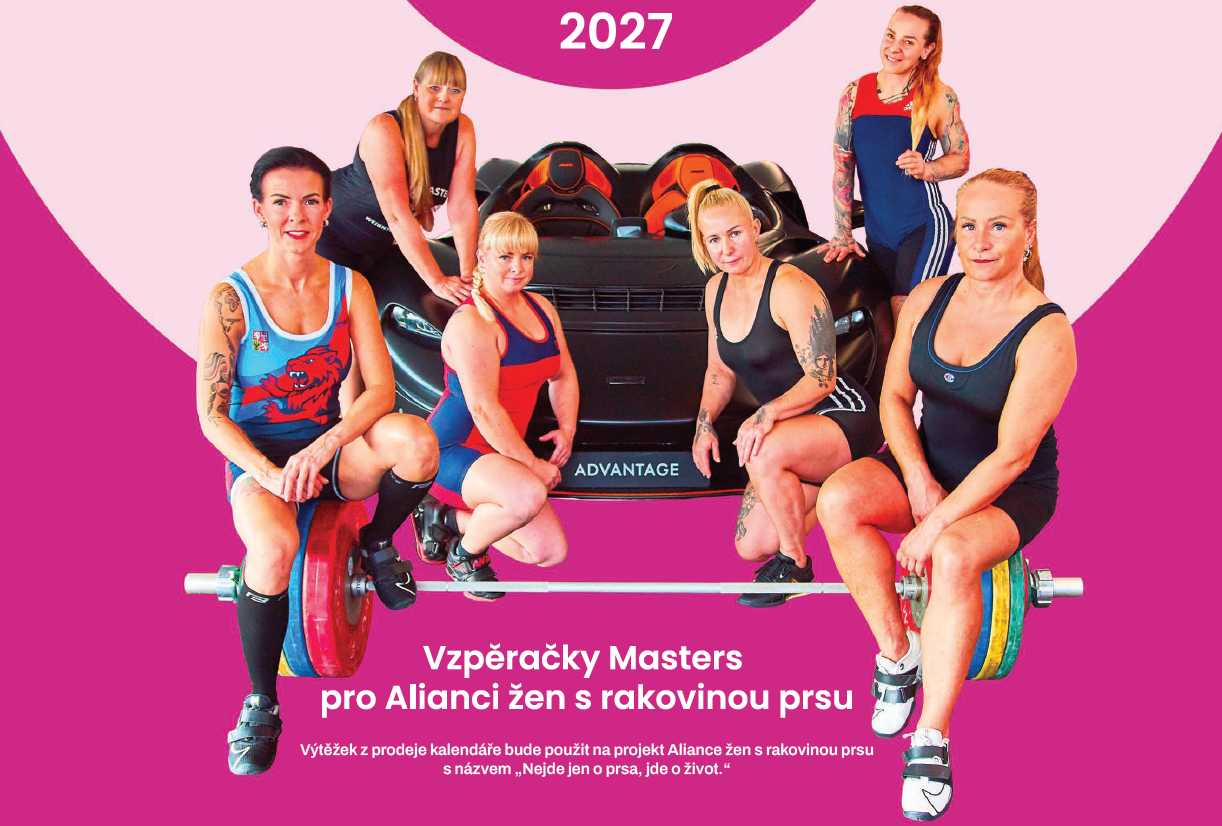
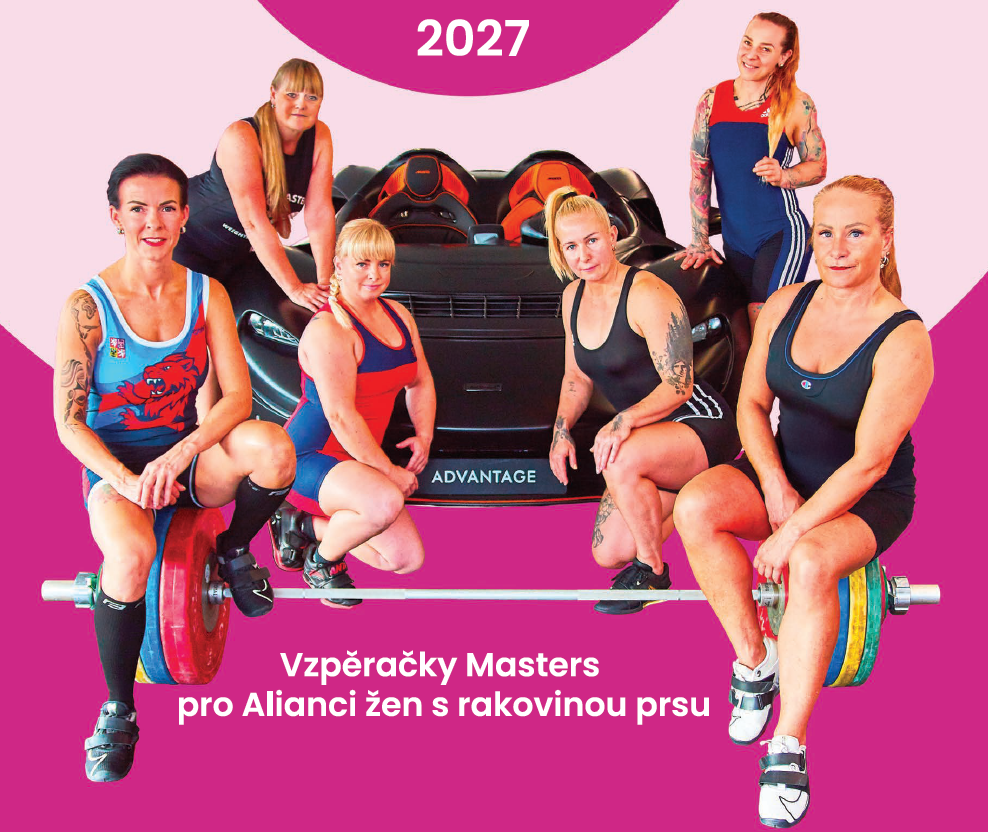
activities section

diff --git a/src/app/components/activities/activities.component.ts b/src/app/components/activities/activities.component.ts
@@ -1,19 +1,16 @@
 import { ChangeDetectionStrategy, Component } from '@angular/core';
 
 interface Activity {
-  fullSrc: string;
   thumbSrc: string;
-  title: string;
-  description: string;
+  title?: string;
+  description?: string;
 }
 
 const ACTIVITIES: Activity[] = [
-  { fullSrc: 'assets/images/fulls/01.jpg', thumbSrc: 'assets/images/thumbs/01.jpg', title: 'Magna sed consequat tempus', description: 'Lorem ipsum dolor sit amet nisl sed nullam feugiat.' },
-  { fullSrc: 'assets/images/fulls/02.jpg', thumbSrc: 'assets/images/thumbs/02.jpg', title: 'Ultricies lacinia interdum', description: 'Lorem ipsum dolor sit amet nisl sed nullam feugiat.' },
-  { fullSrc: 'assets/images/fulls/03.jpg', thumbSrc: 'assets/images/thumbs/03.jpg', title: 'Tortor metus commodo', description: 'Lorem ipsum dolor sit amet nisl sed nullam feugiat.' },
-  { fullSrc: 'assets/images/fulls/04.jpg', thumbSrc: 'assets/images/thumbs/04.jpg', title: 'Quam neque phasellus', description: 'Lorem ipsum dolor sit amet nisl sed nullam feugiat.' },
-  { fullSrc: 'assets/images/fulls/05.jpg', thumbSrc: 'assets/images/thumbs/05.jpg', title: 'Nunc enim commodo aliquet', description: 'Lorem ipsum dolor sit amet nisl sed nullam feugiat.' },
-  { fullSrc: 'assets/images/fulls/06.jpg', thumbSrc: 'assets/images/thumbs/06.jpg', title: 'Risus ornare lacinia', description: 'Lorem ipsum dolor sit amet nisl sed nullam feugiat.' },
+  { thumbSrc: 'assets/images/thumbs/01.png' },
+  { thumbSrc: 'assets/images/thumbs/02.png' },
+  { thumbSrc: 'assets/images/thumbs/03.png' },
+  { thumbSrc: 'assets/images/thumbs/qr-code.png', title: 'Údaje pro platbu' },
 ];
 
 @Component({
@@ -22,15 +19,15 @@ const ACTIVITIES: Activity[] = [
   changeDetection: ChangeDetectionStrategy.OnPush,
   template: `
     <section id="activities">
-      <h2>Naše aktivity</h2>
+      <h2>Ukázka kalendáře</h2>
       <div class="row">
         @for (activity of activities; track activity.thumbSrc) {
           <article class="col-6 col-12-xsmall work-item">
-            <a [href]="activity.fullSrc" class="image fit thumb">
+            <div class="image fit">
               <img [src]="activity.thumbSrc" [alt]="activity.title" />
-            </a>
-            <h3>{{ activity.title }}</h3>
-            <p>{{ activity.description }}</p>
+            </div>
+            @if (activity.title) { <h3>{{ activity.title }}</h3> }
+            @if (activity.description) { <p>{{ activity.description }}</p> }
           </article>
         }
       </div>

diff --git a/src/app/components/header/header.component.ts b/src/app/components/header/header.component.ts
@@ -12,7 +12,7 @@ import { NgOptimizedImage } from '@angular/common';
   template: `
     <header id="header">
       <div class="inner">
-        <img ngSrc="assets/images/intro.png" alt="Vzpěračky Masters pro Alianci žen s rakovinou prsu" width="1222" height="826" priority class="header-image" />
+        <img ngSrc="assets/images/intro.png" alt="Vzpěračky Masters pro Alianci žen s rakovinou prsu" width="988" height="832" priority class="header-image" />
       </div>
       <div class="desktop-footer">
         <div class="inner">

diff --git a/src/styles.css b/src/styles.css
@@ -50,6 +50,24 @@
   display: block;
 }
 
+/* Activity thumbnails */
+.work-item .image {
+  background-color: #ffffff !important;
+}
+
+.work-item .image:before {
+  display: none;
+}
+
+.work-item h3 {
+  text-align: center;
+}
+
+.work-item .image img {
+  max-height: 309.75px;
+  object-fit: contain;
+}
+
 /* Desktop: show sidebar footer, hide mobile footer */
 .mobile-footer {
   display: none;
